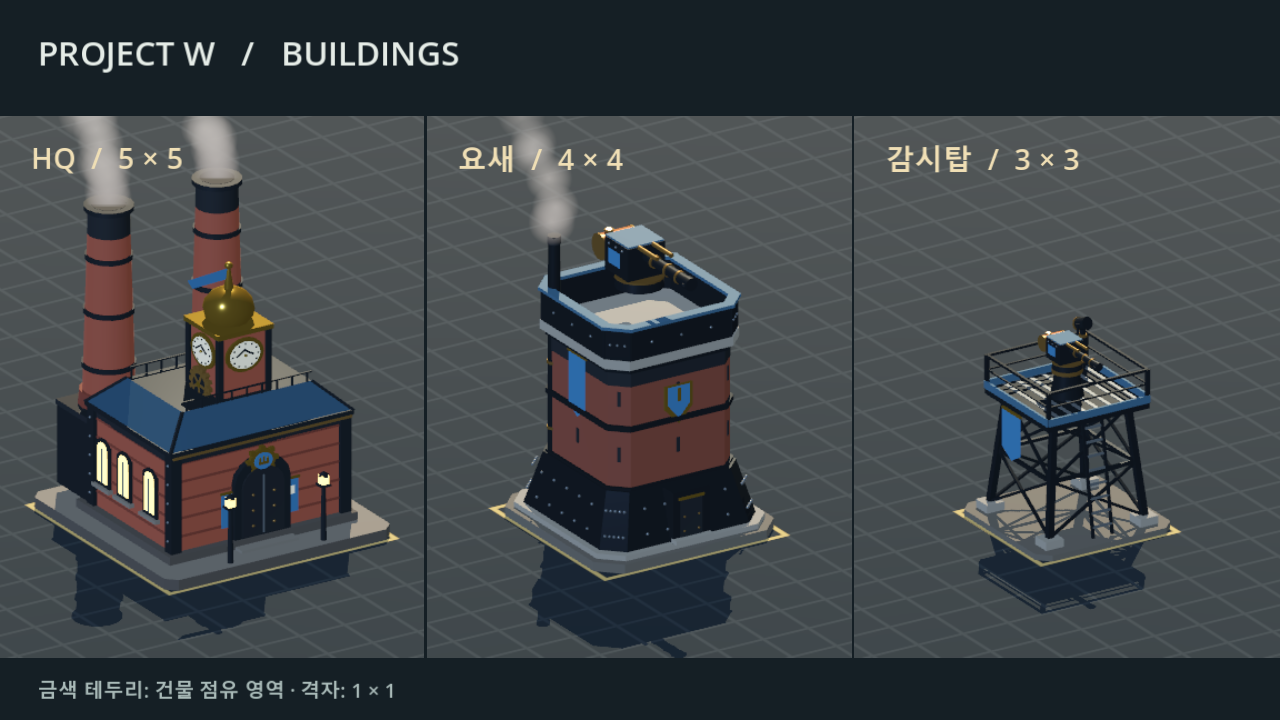
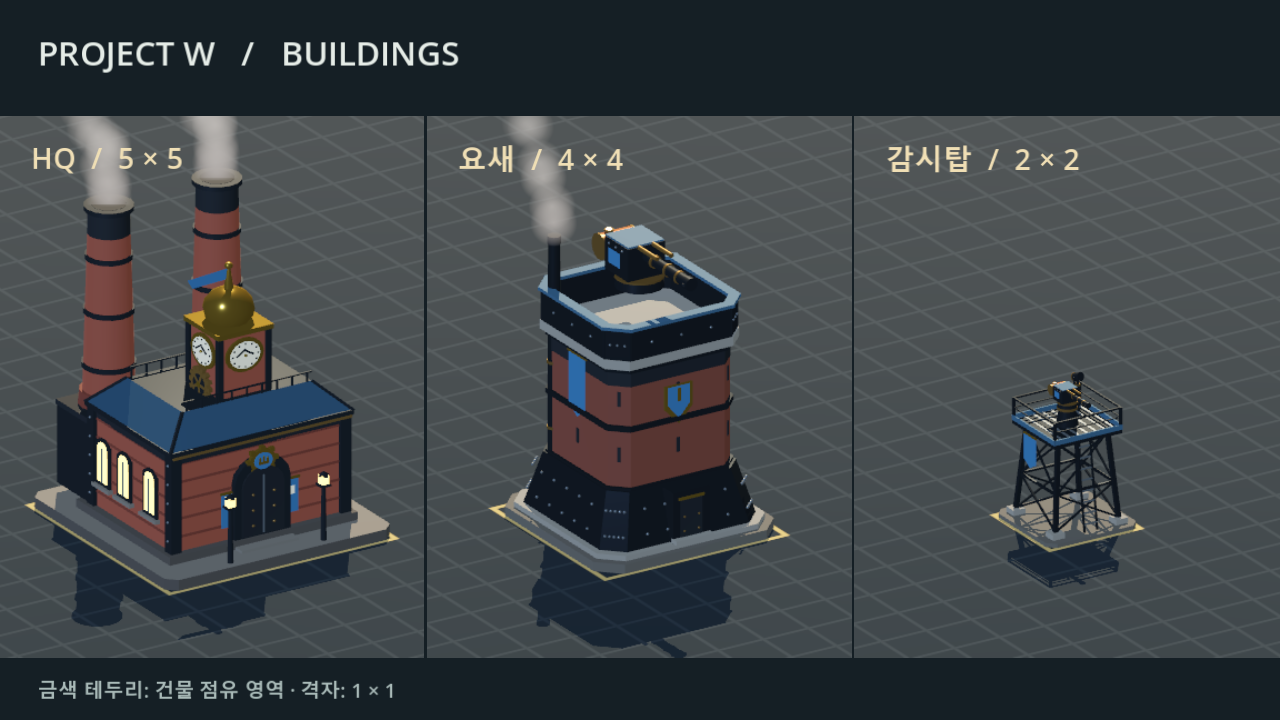
Build the watchtower on a 2x2 footprint
User request, with the server's footprint change the same day: the
model is used at full scale instead of being blown up 1.5x from its 2x2
grid, and the deck sits a little higher to keep the tower silhouette.
Placement, previews, portraits and docs follow.

diff --git a/docs/controls.md b/docs/controls.md
@@ -28,7 +28,7 @@ Ctrl+1~9로 선택한 부대를 저장하고, 숫자로 다시 선택합니다. 
 
 서버가 공사를 시작하면 건물 크기에 맞춘 공통 테두리와 글자 없는 중앙 팻말을 표시합니다. 진행률은 선택 상세정보 창에 표시하고, `CONSTRUCTION 건물ID 진행률`이 100이 되면 완성 모델로 바꿉니다. 내 일꾼을 선택하고 아군 공사 부지를 우클릭하면 한 명에게 `CONSTRUCT 건물ID 일꾼ID`를 보내 이어 짓습니다. 다른 건설자가 있는지는 서버가 판정하고 `ERR 이미 짓는 중`을 알립니다. 공사 중 건물도 파괴 시 즉시 제거합니다.
 
-HQ는 5×5, 석조 요새(`Fortress.tscn`, 타입 1)는 4×4, 목조 감시탑(`Tower.tscn`, 타입 6)은 3×3입니다. 요새는 시작 건물이고 감시탑은 목재 200·30초로 건설합니다. 기존 모델을 확대해 서버 점유 크기에 맞췄으며, 게임 속 건물의 정면은 플레이어의 카메라 방향을 향합니다. 서버 회전값은 입구 방향에만 적용하고 충돌·배치·공사 테두리는 서버와 같은 축 정렬 영역을 사용합니다. `previews/Buildings.tscn`에서 HQ·요새·감시탑을 같은 배율로 비교할 수 있습니다.
+HQ는 5×5, 리벳 철판 요새(`Fortress.tscn`, 타입 1)는 4×4, 철골 감시탑(`Tower.tscn`, 타입 6)은 2×2입니다. 요새는 시작 건물이고 감시탑은 목재 200·30초로 건설합니다. 기존 모델을 확대해 서버 점유 크기에 맞췄으며, 게임 속 건물의 정면은 플레이어의 카메라 방향을 향합니다. 서버 회전값은 입구 방향에만 적용하고 충돌·배치·공사 테두리는 서버와 같은 축 정렬 영역을 사용합니다. `previews/Buildings.tscn`에서 HQ·요새·감시탑을 같은 배율로 비교할 수 있습니다.
 
 배치 미리보기는 시작 때 읽어 둔 투명 이미지를 재사용합니다. 버튼 클릭 시 모델을 생성하지 않고 위치·크기·색만 갱신합니다. 공사 부지는 공통 3D 표시를 쓰고, 완공 후에는 각 건물의 3D 모델을 표시합니다.
 

diff --git a/CHANGELOG.md b/CHANGELOG.md
@@ -5,6 +5,7 @@
 
 ## 2026-10-16
 
+- 감시탑을 서버와 함께 **2×2**로 줄였습니다. 모델을 1.5배로 키우지 않고 2×2 그대로 쓰며, 발판을 조금 높여 탑 실루엣을 살렸습니다. 배치 미리보기와 선택 원도 2×2를 따릅니다.
 - 요새와 망루를 다시 만들고 망루의 표시 이름을 **감시탑**으로 바꿨습니다. 요새는 경사 철판 아랫단과 철띠 두른 벽돌 몸통, 총안, 금박 방패, 진영 깃발, 진영색 흉벽 테두리, 배기관 연기를 갖춘 리벳 철판 팔각 보루입니다. 감시탑은 철골 격자 탑에 철망 발판, 사다리, 천천히 회전하는 탐조등을 달았습니다. 두 건물의 회전 무기는 쇠뇌 대신 증기 기관포(포신·반동 실린더·보일러 통)이며 발사 위치도 포구로 옮겼습니다. 점유 영역은 그대로입니다.
 - 조병창(옛 대장간, 타입 5)을 회사 병기 공장으로 다시 만들었습니다. 진영색 철판 톱날 지붕의 벽돌 주물 공장, 화덕 불빛이 새는 작업장 입구에서 계속 내리치는 증기 해머, 연기를 뿜는 리벳 용광로와 쇳물 국자, 마당의 소총 상자·장갑판·포탄 더미로 구성했습니다. 점유 영역 4×3은 그대로입니다.
 - 표시 이름을 바꿨습니다. 주택은 **숙소**, 대장간은 **조병창**입니다. 선택창, 건설 메뉴, 툴팁, 미리보기, 문서를 함께 바꿨고 서버 문구도 같은 날 바뀝니다.
